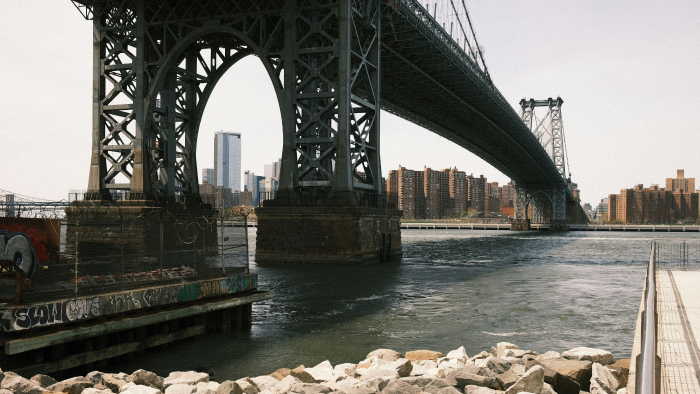
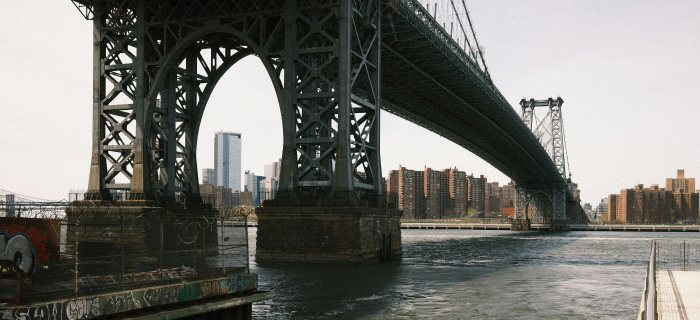
01 added info section 02 updated images/main.jpg

diff --git a/css/style.css b/css/style.css
@@ -1,7 +1,11 @@
 /*
 
 01 common style
-02 header & footer
+02 Form, input & button
+03 header & footer
+04 Hero / main banner
+05 Section: some random info
+
 
 */
 
@@ -9,7 +13,10 @@
 /* ========== 01 common style ========== */
 :root{
     --dark: #1f2937;
+    --light-grey: #e5e7eb;
     --blue: #3882F6;
+    --title-color: #f9faf8;
+    --quote-color: var(--light-grey);
 }
 html,body{
     margin: 0;
@@ -21,17 +28,45 @@ body{
     font-family: Roboto, system-ui, -apple-system, BlinkMacSystemFont, 'Segoe UI', Roboto, Oxygen, Ubuntu, Cantarell, 'Open Sans', 'Helvetica Neue', sans-serif;
     font-size: 14px;
 }
-.content-area{
-    flex: 0 0 auto;
-    width: 1200px;
-}
-
-/* ========== 02 header & footer ========== */
-header, footer{
+header,footer,section{
     align-items: center;
-    background: var(--dark);
     display: flex;
     justify-content: center;
+    padding: 40px 0;
+}
+.content-area{
+    box-sizing: border-box;
+    flex: 0 0 auto;
+    padding: 0 20px;
+    width: 1200px;
+}
+.content-area.flex{
+    display: flex;
+}
+.content-area.fv{
+    flex-direction: column;
+}
+img{
+    vertical-align: top;
+    width: 100%;
+}
+
+
+/* ========== 02 Form, input & button ========== */
+button{
+    background: var(--blue);
+    border: 0;
+    border-radius: 10px;
+    color: #fff;
+    font-size: 20px;
+    padding: 8px 20px;
+}
+
+
+
+/* ========== 03 header & footer ========== */
+header, footer{
+    background: var(--dark);
     padding: 10px 0;
 }
 header .content-area{
@@ -43,7 +78,7 @@ header a{
     text-decoration: none;
 }
 .logo{
-    color: #F9FAF8;
+    color: var(--title-color);
     font-size: 24px;
 }
 header ul{
@@ -55,3 +90,60 @@ header ul a{
     color: #E5E7E8;
     font-size: 18px;
 }
+
+
+
+/* ========== 04 Hero / main banner ========== */
+.hero{
+    background: var(--dark);
+    padding: 80px 0;
+}
+.hero h2{
+    color: var(--title-color);
+    font-size: 48px;
+    font-weight: 900;
+    margin:0;
+}
+.hero p{
+    color: var(--light-grey);
+    font-size: 18px;
+}
+.hero .content-area{
+    align-items: center;
+    gap: 80px;
+}
+.hero .content-area > div{
+    flex-basis: 50%;
+}
+
+
+
+/* ========== 05 Section: some random info ========== */
+.info h4{
+    color: #1f2937;
+    font-size: 36px;
+    font-weight: 900;
+}
+.info .content-area{
+    align-items: center;
+}
+.thumbs{
+    align-items:flex-start;
+    display: flex;
+    gap: 40px;
+    justify-content: center;
+}
+.thumb{
+    display: flex;
+    flex: 0 0 200px;
+    flex-direction: column;
+    gap: 12px;
+}
+.thumb img{
+    border: solid 6px var(--blue);
+    border-radius: 10px;
+}
+.thumb p{
+    text-align: center;
+}
+

diff --git a/index.html b/index.html
@@ -18,12 +18,39 @@
         </div>
     </header>
     <section class="hero">
-        <div class="left"></div>
-        <div class="right"></div>
+        <div class="content-area flex">
+            <div class="left">
+                <h2>This website is awesome</h2>
+                <p>This website has some subtext that goes here under the main title. It's a smaller font and the color is lower contrast.</p>
+                <button type="button">Sign up</button>
+            </div>
+            <div class="right">
+                <img src="images/main.jpg" alt="Main banner">
+            </div>
+        </div>
     </section>
     <section class="info">
-        <h4>Some random information.</h4>
-        <div class="thumbs"></div>
+        <div class="content-area flex fv">
+            <h4>Some random information.</h4>
+            <div class="thumbs">
+                <div class="thumb">
+                    <img src="images/thumb1.jpg" alt="thumbnail 1">
+                    <p>Lorem ipsum dolor sit amet, consectetur adipiscing elit. Sed eget porta lacus. Nunc sagittis porttitor magna, sit amet sollicitudin nunc fringilla non. Curabitur lectus elit,</p>
+                </div>
+                <div class="thumb">
+                    <img src="images/thumb2.jpg" alt="thumbnail 2">
+                    <p>vehicula tristique felis. Sed a felis sit amet lectus accumsan malesuada. Nullam feugiat ante at leo sagittis rutrum.</p>
+                </div>
+                <div class="thumb">
+                    <img src="images/thumb3.jpg" alt="thumbnail 3">
+                    <p>Aliquam erat volutpat. In mollis arcu non est commodo finibus. Sed pharetra tellus risus, eu pulvinar risus ullamcorper ac.</p>
+                </div>
+                <div class="thumb">
+                    <img src="images/thumb4.jpg" alt="thumbnail 4">
+                    <p>Ut vitae diam rhoncus, tincidunt eros auctor, commodo nisi. Pellentesque habitant morbi tristique senectus.</p>
+                </div>
+            </div>
+        </div>
     </section>
     <section class="quote"></section>
     <section class="cta"></section>
